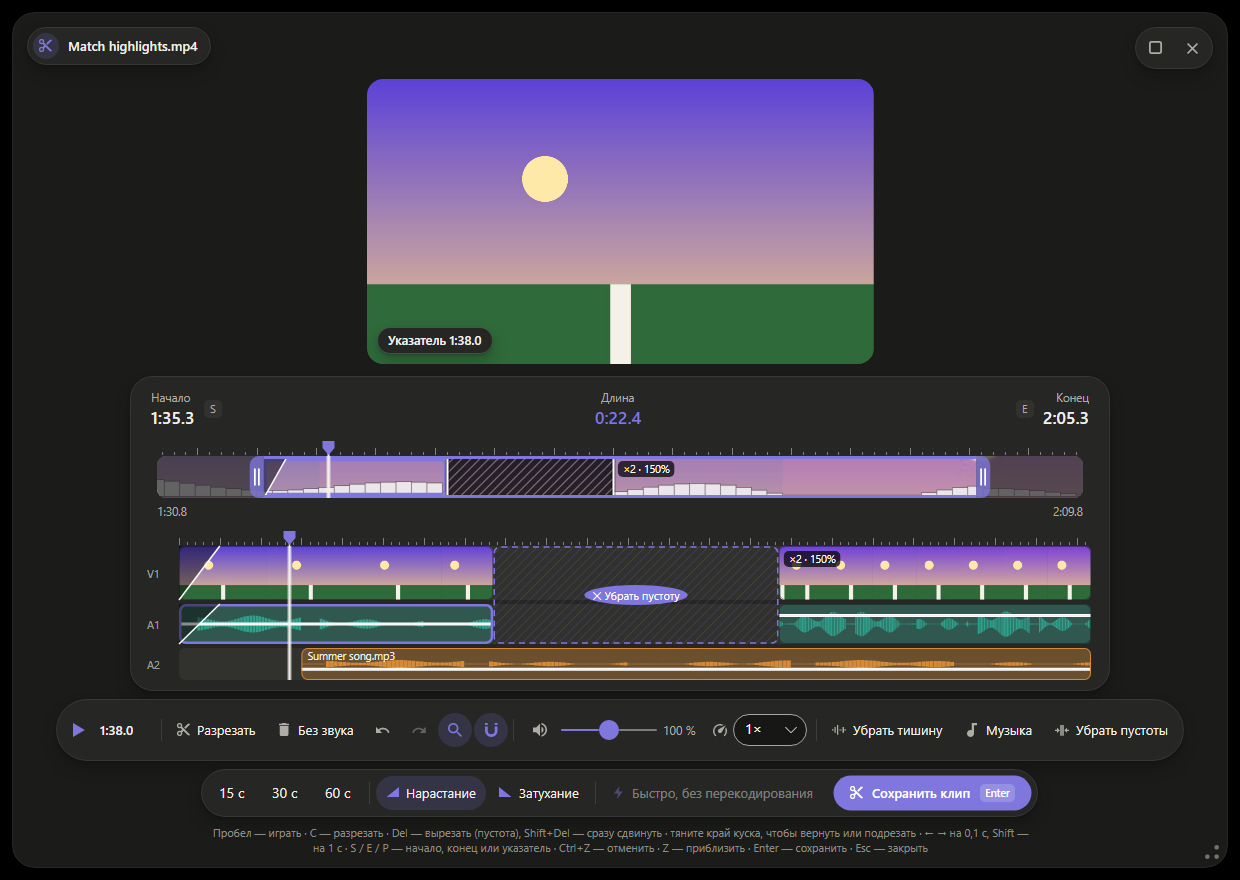
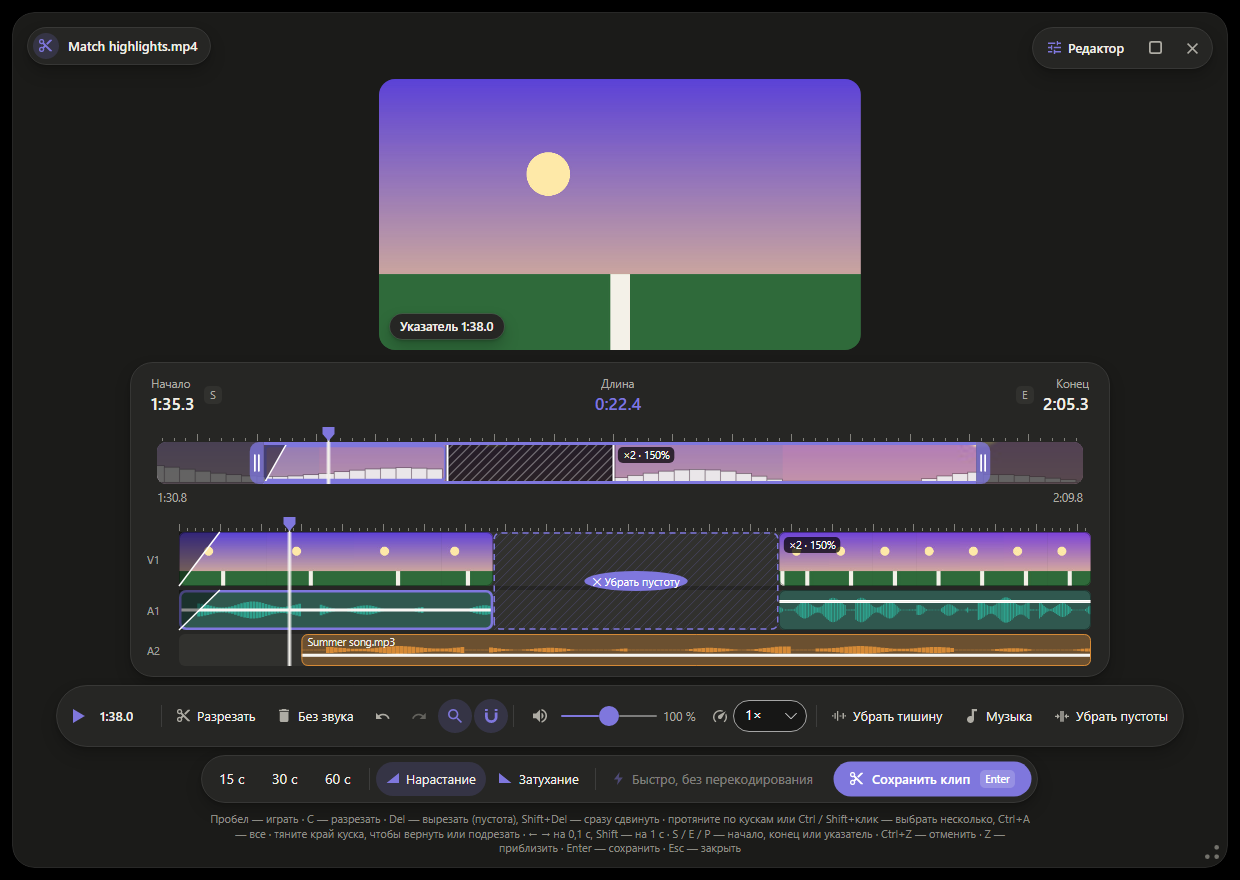
README: the editor, Join videos, GPU by default, window zoom; Linux and macOS packages; release private-2.0.0-1

diff --git a/.github/README.md b/.github/README.md
@@ -6,8 +6,8 @@
 </p>
 
 <p align="center">
-  <a href="https://github.com/flexeykinDev/Filee/releases/tag/private-1.12.0-3"><b>Скачать установщик</b></a> ·
-  <a href="#clip"><b>Монтаж клипов</b></a> ·
+  <a href="https://github.com/flexeykinDev/Filee/releases/tag/private-2.0.0-1"><b>Скачать (Windows, Linux, macOS)</b></a> ·
+  <a href="#clip"><b>Видеоредактор</b></a> ·
   <a href="https://github.com/KnifeLemon/Filee"><b>Оригинальный Filee</b></a> ·
   <a href="#build">Собрать самому</a>
 </p>
@@ -15,7 +15,7 @@
 Это неофициальная сборка [Filee](https://github.com/KnifeLemon/Filee), бесплатного конвертера файлов от
 [KnifeLemon](https://github.com/KnifeLemon). Зажимаете <kbd>Ctrl</kbd>, тянете файл, и у курсора открывается
 кольцо форматов. Код взят из оригинала, сверху — отключённые автоподключения к серверам, пиксельная тема и
-монтаж клипов из видео, которых в оригинале пока нет.
+видеоредактор, которых в оригинале пока нет.
 
 <a id="diff"></a>
 <img src="private/s-diff.svg" alt="01 · Чем отличается от официальной сборки" width="100%">
@@ -24,8 +24,12 @@
   этой службы отклоняются ещё до подключения, а таймер не запускается.
 - **Нет самообновления.** Оригинал умеет сам скачать и запустить официальный установщик, который заменил бы эту
   сборку на чужую. Здесь это отключено. Галочка «Проверять обновления» выключена по умолчанию.
-- **«Вырезать клип»** — небольшой видеоредактор прямо в Filee, [подробнее ниже](#clip). Предложен в оригинал:
-  [KnifeLemon/Filee#326](https://github.com/KnifeLemon/Filee/pull/326).
+- **Видеоредактор** «Вырезать клип» и **«Склеить видео»** прямо в кольце, [подробнее ниже](#clip). Предложены в
+  оригинал: [KnifeLemon/Filee#326](https://github.com/KnifeLemon/Filee/pull/326).
+- **Видеокарта по умолчанию.** Видео кодирует видеокарта (NVIDIA, Intel, AMD, Apple), если она есть, — и в редакторе,
+  и в обычной конвертации. Если не вышло, Filee сам повторит на процессоре.
+- **Масштаб окон:** <kbd>Ctrl</kbd> + колесо, <kbd>Ctrl</kbd> + <kbd>+</kbd> / <kbd>-</kbd>, <kbd>Ctrl</kbd> + <kbd>0</kbd> —
+  сбросить.
 - **Пиксельная тема** (Настройки → Тема): ступенчатые углы, зерно, точечные цифры, лавандовый акцент.
 - Всё остальное — `main` оригинала без изменений, вместе с исправлениями, которые пришли из этого форка и уже приняты
   в оригинал: [#310](https://github.com/KnifeLemon/Filee/pull/310), [#311](https://github.com/KnifeLemon/Filee/pull/311),
@@ -33,33 +37,60 @@
   [#315](https://github.com/KnifeLemon/Filee/pull/315).
 
 <a id="clip"></a>
-<img src="private/s-clip.svg" alt="02 · Монтаж клипов из видео" width="100%">
+<img src="private/s-clip.svg" alt="02 · Видеоредактор" width="100%">
 
-На обратной стороне кольца видео (<kbd>Tab</kbd> или колесо мыши) есть **«Вырезать клип»**. Бросьте на него видео
-на 5–10 минут — откроется окно, где за минуту собирается нарезка на 15–60 секунд:
+На обратной стороне кольца видео (<kbd>Tab</kbd> или колесо мыши) есть **«Вырезать клип»** и **«Склеить видео»**.
 
-<p align="center"><img src="private/clip-editor.png" alt="Окно «Вырезать клип»: кадр, обзор видео, дорожки V1, A1 и A2" width="100%"></p>
+### Быстрая обрезка
 
-- **Сверху — всё видео.** Тяните метки начала и конца; кнопки 15 / 30 / 60 с ставят длину от начала.
-  <kbd>Z</kbd> приближает шкалу к клипу.
-- **Ниже — монтаж, как в Premiere:** V1 — картинка, A1 — звук видео, A2 — музыка.
-- <kbd>Пробел</kbd> проигрывает клип **со звуком** ровно так, как он сохранится.
-- <kbd>C</kbd> — лезвие: режет кусок там, где стоит указатель.
-- <kbd>Delete</kbd> вырезает кусок и оставляет пустоту с кнопкой «Убрать пустоту»; <kbd>Shift</kbd>+<kbd>Delete</kbd>
-  сразу сдвигает остальное. Вырезали лишнее — **потяните край куска**, и он развернётся обратно.
-- **Несколько кусков сразу:** протяните мышью по кускам, Ctrl+клик добавляет, Shift+клик — диапазон, Ctrl+A — все.
-  Delete, громкость, скорость и «Без звука» применяются ко всем выбранным.
-- **Звук отдельно:** на A1 у каждого куска своя громкость (тяните линию), <kbd>Delete</kbd> на A1 выключает звук куска,
-  а картинка остаётся.
-- **Своя музыка:** кнопка «Музыка» кладёт звук из любого файла на A2; его можно двигать и менять громкость.
-- Скорость куска от 0,25× до 4× (высота звука не меняется), нарастание и затухание по 1 секунде,
-  «Убрать тишину» вырезает тихие места, <kbd>Ctrl</kbd>+<kbd>Z</kbd> / <kbd>Ctrl</kbd>+<kbd>Y</kbd> отменяют и
-  повторяют, <kbd>M</kbd> включает магнит (прилипание к разрезам).
-- Клип сохраняется рядом с видео как `<имя>_clip` в том же формате (или MP4), прогресс и отмена — в обычном окошке
-  конвертации. Один кусок без эффектов копируется мгновенно и без потерь («Быстро, без перекодирования»), всё
-  остальное кодируется с настройками пресета.
+Бросьте видео на «Вырезать клип» — за минуту получится нарезка на 15–60 секунд:
 
-Для видео нужен FFmpeg: Настройки → Движки → «Установить». Звук в предпросмотре играет `ffplay` из той же сборки FFmpeg.
+<p align="center"><img src="private/clip-editor.png" alt="Быстрая обрезка: кадр, обзор видео, дорожки V1, A1 и A2" width="100%"></p>
+
+- Сверху всё видео: тяните метки начала и конца, кнопки 15 / 30 / 60 с ставят длину, <kbd>Z</kbd> приближает шкалу.
+- <kbd>Пробел</kbd> проигрывает клип со звуком ровно так, как он сохранится; <kbd>C</kbd> режет кусок,
+  <kbd>Delete</kbd> вырезает. Вырезали лишнее — потяните край куска, и он вернётся.
+- Скорость 0,25×–4×, громкость куска, «Убрать тишину», музыка на A2, нарастание и затухание.
+- Один кусок без эффектов копируется мгновенно и без потерь.
+
+### Редактор
+
+Кнопка **«Редактор»** открывает полный монтаж — как в CapCut, только локально:
+
+<p align="center"><img src="private/editor.png" alt="Редактор: файлы проекта, превью 9:16 с картинкой и текстом, свойства, дорожки T, I, V1, A1, A2" width="100%"></p>
+
+- **Несколько видео, звуков и картинок.** Перетащите файлы в панель «Файлы» или прямо на шкалу. Видео встают в
+  конец клипа, звуки — подряд друг за другом, картинки — поверх видео у указателя.
+- **Дорожки:** T — тексты, I — картинки, V1 — видео, A1 — его звук, A2, A3… — свои звуки (до 8 дорожек). Звуки
+  тянутся по времени и между дорожками, края подрезаются, громкость — линией.
+- **Кадр 16:9, 9:16, 1:1, 4:5** для YouTube, Shorts, TikTok и Instagram. Видео другой формы — целиком с полосами,
+  обрезанным или на размытом фоне. В превью видео, картинки и тексты **двигаются, растягиваются за угол и
+  поворачиваются** за круглую ручку (с прилипанием к 0°, 90°…).
+- **Тексты:** заголовок, подпись снизу или метка; любой шрифт компьютера, цвет, размер, прозрачность, поворот.
+  В клип текст попадает ровно таким, каким он в превью.
+- **Картинки поверх видео:** логотип, стикер, водяной знак — размер, прозрачность, поворот, сколько показывать.
+- **Переходы** между кусками: плавный, через чёрное, только звук. **Стоп-кадр**, **задом наперёд**, плавное
+  **ускорение и замедление** куска, поворот на 90°.
+- **Звук клипа:** выровнять громкость (EBU R128), убрать шум, подтянуть тихую речь, музыка тише под речью.
+- **ПКМ везде:** по куску, пустоте, переходу, тексту, картинке, звуку и файлу в панели — там же «Убрать из проекта»
+  (вместе со всеми кусками этого файла) и «Показать в папке».
+- <kbd>Ctrl</kbd>+<kbd>Z</kbd> / <kbd>Ctrl</kbd>+<kbd>Y</kbd> для всего, <kbd>Ctrl</kbd>+<kbd>C</kbd> / <kbd>V</kbd> /
+  <kbd>D</kbd>, <kbd>J</kbd> / <kbd>K</kbd> / <kbd>L</kbd>, <kbd>,</kbd> <kbd>.</kbd> — кадр, <kbd>T</kbd> — текст,
+  <kbd>F</kbd> — во весь экран, <kbd>E</kbd> — экспорт, <kbd>Alt</kbd> + колесо — масштаб шкалы.
+
+**Экспорт** (<kbd>E</kbd>): готовые настройки «YouTube 1080p», «Shorts / TikTok 9:16», «Discord до 10 МБ»,
+«Telegram до 50 МБ» или свои — формат (H.264 — играет везде, HEVC — вдвое меньше, WebM, GIF), разрешение, частота кадров, качество, предел
+размера. Видеокарта включена по умолчанию. «Каждый кусок — отдельным файлом» сохраняет несколько моментов одного
+видео за раз.
+
+### Склеить видео
+
+Перетащите на «Склеить видео» сразу несколько файлов — откроется список: порядок меняется стрелками, затем
+«Склеить». Видео одного формата склеиваются за секунды без перекодирования, разные — перекодируются в один
+кадр. Кнопка «Открыть в редакторе» откроет их в редакторе с переходами.
+
+Для видео нужен FFmpeg: Настройки → Движки → «Установить» (на macOS — `brew install ffmpeg`). Звук в превью играет
+`ffplay` из той же сборки FFmpeg.
 
 <a id="network"></a>
 <img src="private/s-net.svg" alt="03 · Куда программа ходит в сеть" width="100%">
@@ -73,7 +104,7 @@
 | Перетащить картинку или ссылку прямо из браузера | адрес, который вы перетащили |
 | Ссылки GitHub и «Помочь» | открываются в вашем браузере |
 
-Монтаж клипов в сеть не ходит: кадры, звук и музыка читаются с диска через FFmpeg.
+Редактор в сеть не ходит: кадры, звук, картинки и шрифты читаются с диска.
 
 <a id="engines"></a>
 <img src="private/s-engines.svg" alt="04 · Откуда качаются движки" width="100%">
@@ -84,7 +115,7 @@
 
 | Движок | Источник |
 |---|---|
-| FFmpeg (видео, аудио, монтаж клипов) | [gyan.dev](https://github.com/GyanD/codexffmpeg), на эти сборки ссылается ffmpeg.org |
+| FFmpeg (видео, аудио, редактор) | Windows: [gyan.dev](https://github.com/GyanD/codexffmpeg), на эти сборки ссылается ffmpeg.org; Linux: [BtbN/FFmpeg-Builds](https://github.com/BtbN/FFmpeg-Builds); macOS: из системы (Homebrew) |
 | LibreOffice | download.documentfoundation.org |
 | Pandoc | [jgm/pandoc](https://github.com/jgm/pandoc) |
 | calibre | download.calibre-ebook.com |
@@ -95,24 +126,48 @@
 <a id="install"></a>
 <img src="private/s-install.svg" alt="05 · Установка" width="100%">
 
-1. Скачайте `Filee-1.12.0-win-Setup.exe` со [страницы релиза](https://github.com/flexeykinDev/Filee/releases/tag/private-1.12.0-3)
-   и сверьте хеш:
-   ```powershell
-   Get-FileHash .\Filee-1.12.0-win-Setup.exe   # FB54426A55A9108FF417FB8518ADCE5492E258B6427AED45F3500CE16C508C59
-   ```
-2. Установщик не подписан, поэтому SmartScreen предупредит: «Подробнее» → «Выполнить в любом случае».
-3. Не соглашайтесь на обновление из официального Filee: оно заменит эту сборку.
+Всё лежит на [странице релиза](https://github.com/flexeykinDev/Filee/releases/tag/private-2.0.0-1), хеши — в
+`*-SHA256SUMS.txt` рядом с каждым файлом.
 
-Ставится поверх прежней версии этой сборки с сохранением настроек. Для тихой установки в свою папку без прав
-администратора: `Filee-1.12.0-win-Setup.exe /SILENT /CURRENTUSER /DIR="D:\Apps\Filee"`.
+**Windows 10/11.** Скачайте `Filee-2.0.0-win-Setup.exe` и сверьте хеш:
+
+```powershell
+Get-FileHash .\Filee-2.0.0-win-Setup.exe   # 3E7611D1B65E12F9C4B4C1EFA6B03A75CCA12460C9CC2B804218A33249AD1959
+```
+
+Установщик не подписан, поэтому SmartScreen предупредит: «Подробнее» → «Выполнить в любом случае». Ставится поверх
+прежней версии этой сборки с сохранением настроек. Не соглашайтесь на обновление из официального Filee: оно заменит
+эту сборку. Тихая установка в свою папку без прав администратора:
+`Filee-2.0.0-win-Setup.exe /SILENT /CURRENTUSER /DIR="D:\Apps\Filee"`.
+
+**Linux** (Ubuntu 22.04+ и другие с glibc 2.35+; x64 и arm64). Нужен Python 3 и системные библиотеки — полный
+список в `INSTALL.txt` внутри архива.
+
+```bash
+tar -xzf Filee-2.0.0-linux-x64.tar.gz && cd Filee-2.0.0-linux-x64
+./install.sh      # в меню приложений и ~/.local/bin/filee, без root
+```
+
+Жесты над файлами работают в X11 (и XWayland); в Wayland — окно для перетаскивания и пункт в файловом менеджере.
+
+**macOS 13+** (Apple Silicon — `osx-arm64`, Intel — `osx-x64`):
+
+```bash
+tar -xzf Filee-2.0.0-osx-arm64.tar.gz && cd Filee-2.0.0-osx-arm64
+./install.sh      # Filee.app в ~/Applications и ~/.local/bin/filee
+brew install ffmpeg
+```
+
+Сборка подписана ad-hoc и не нотаризована: при первом запуске «Системные настройки → Конфиденциальность и
+безопасность → Всё равно открыть». Для жестов разрешите Filee в «Универсальном доступе».
 
 **Как открыть кольцо форматов:**
 
 | Способ | Что сделать |
 |---|---|
-| Перетаскивание | В Проводнике тяните файл левой кнопкой и зажмите <kbd>Ctrl</kbd>. Кнопку отпускайте на нужном формате |
-| Клавиатура | Выделите файл в Проводнике и нажмите <kbd>Ctrl</kbd> + <kbd>Alt</kbd> + <kbd>Space</kbd> |
-| Меню | ПКМ по файлу → «Конвертировать с помощью Filee» |
+| Перетаскивание | Тяните файл левой кнопкой и зажмите <kbd>Ctrl</kbd>. Кнопку отпускайте на нужном формате |
+| Клавиатура | Выделите файл и нажмите <kbd>Ctrl</kbd> + <kbd>Alt</kbd> + <kbd>Space</kbd> |
+| Меню | ПКМ по файлу → «Конвертировать с помощью Filee» (macOS — быстрое действие Finder) |
 | Окно | Перетащите файл в зону на главной странице Filee |
 
 Жесты по умолчанию работают над Проводником и рабочим столом. Чтобы они работали везде, откройте
@@ -130,7 +185,9 @@ pwsh build/fetch-fonts.ps1
 pwsh build/build-installer.ps1
 ```
 
-Установщик появится в `Releases/`. Чтобы подтянуть новую версию оригинала, влейте его `main`:
+Установщик появится в `Releases/`. Пакеты для Linux и macOS собирает workflow «Linux and macOS packages»
+(Actions → Run workflow) — там же прогоняются все тесты на этих системах. Чтобы подтянуть новую версию оригинала,
+влейте его `main`:
 
 ```bash
 git fetch https://github.com/KnifeLemon/Filee.git main
